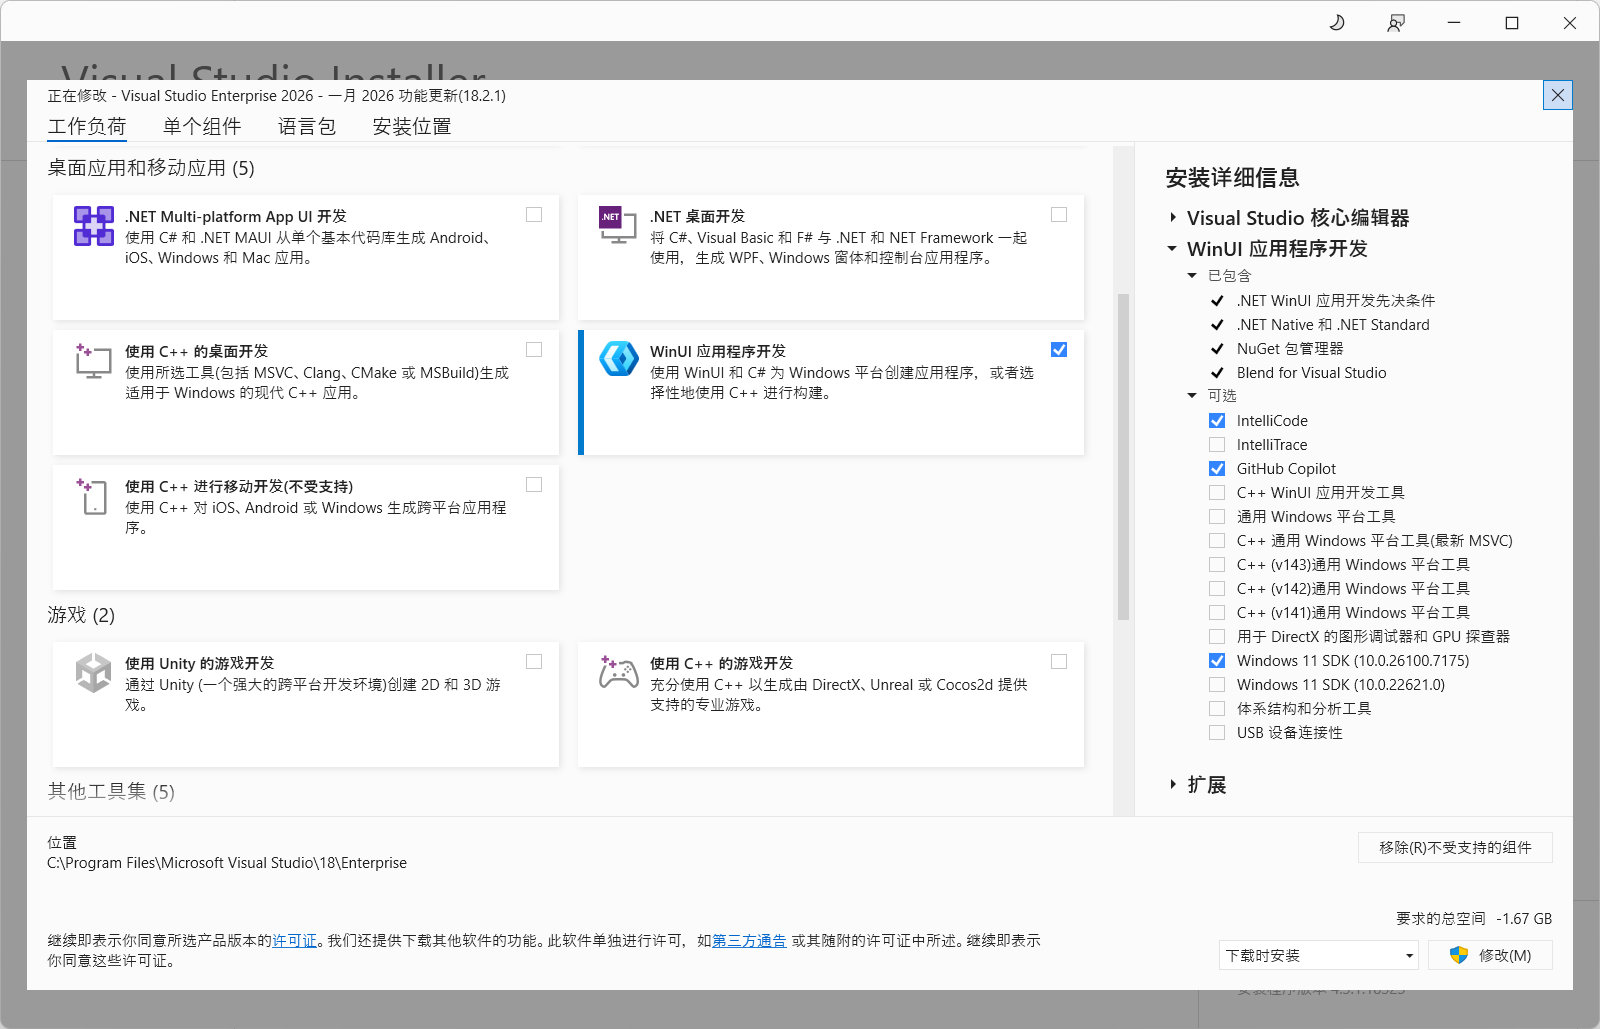
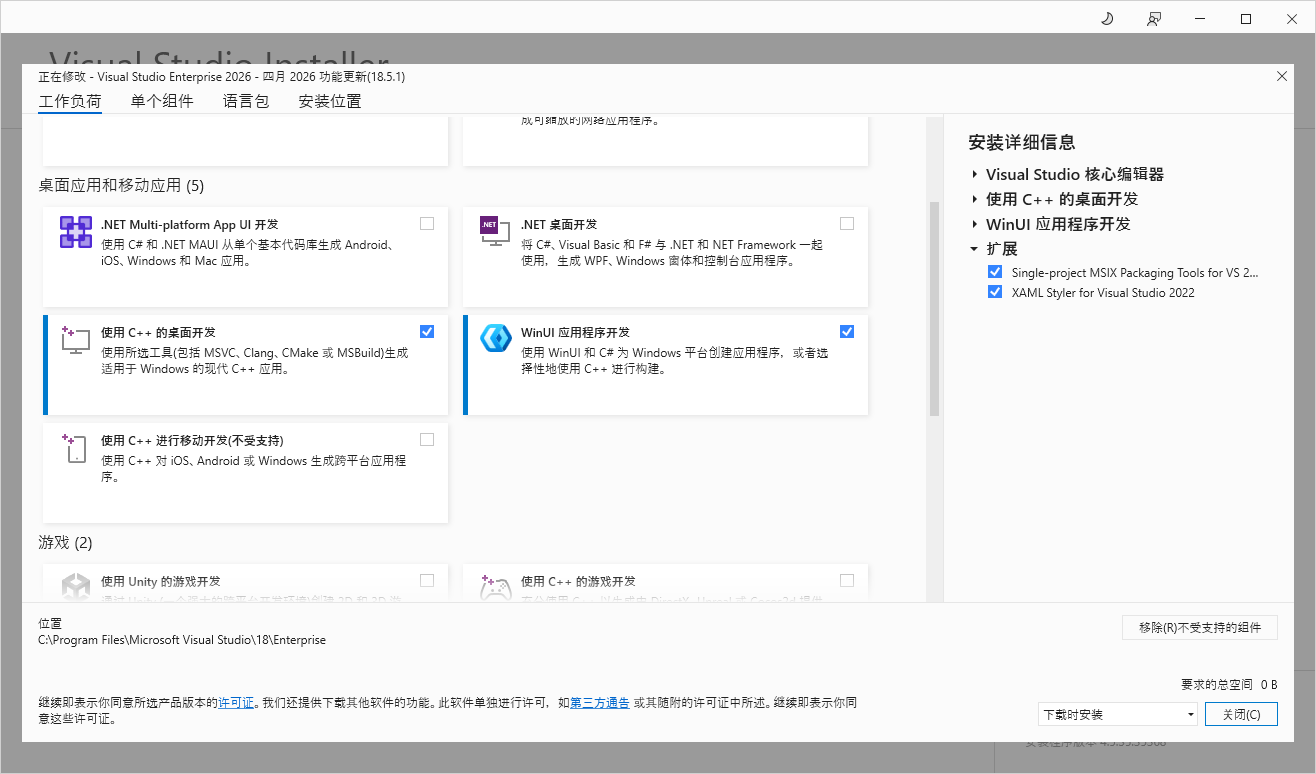
更新README

diff --git a/README.md b/README.md
@@ -29,9 +29,9 @@
 - 🎵 **全格式音频播放** - 支持 MP3、FLAC、OPUS、OGG 等 20+ 种音频格式，本地与在线音乐无缝切换
 - 🌐 **在线音乐搜索** - 集成在线音乐 API，支持在线搜索、播放歌曲、专辑、歌单及艺术家
 - 🗂 **智能音乐管理** - 按艺术家、专辑、歌单多维度分类，支持 M3U8 播放列表导入导出
-- 📝 **沉浸歌词体验** - 内嵌与灵动词岛双模式歌词显示，支持字体自定义
+- 📝 **沉浸歌词体验** - 内嵌与灵动词岛双模式歌词显示，支持字体字号自定义
 - 🎛 **专业音效控制** - 内置变速播放，支持 WASAPI 独占模式输出
-- 🎨 **精致视觉设计** - 多种 云母/亚克力 材质主题，封面取色动态背景，优雅现代的界面
+- 🎨 **精致视觉设计** - 多种云母、亚克力材质主题，封面取色动态背景，Q弹动效，优雅现代的界面
 - 🔄 **系统深度整合** - 系统媒体传输控制（SMTC）支持，文件关联启动，通知推送
 - 📋 **灵活队列管理** - 随机播放、单曲循环、列表循环，支持播放队列自由编辑
 
@@ -48,6 +48,14 @@
 - **x64** - 适用于 64 位系统（推荐，大多数用户）
 - **ARM64** - 适用于 ARM 64 位系统（如 Surface Pro X）
 - **x86** - 适用于 32 位系统（较少使用）
+
+## ❗ 注意事项
+
+批量选择歌曲功能暂未实现，目前点击歌曲前的复选框没有反应是正常现象。
+
+## 📢 社区
+
+交流群: [QQ群](https://qm.qq.com/q/fwxkEjwlDa) (548076820)
 
 ## 📱 应用界面
 
@@ -100,6 +108,16 @@
 | 简体中文                        | zh-Hans  |   ✅   |   ✅   | LanZhan-Harmony |
 | 繁体中文 (繁體中文)             | zh-Hant  |   ✅   |   -    | 机器翻译        |
 
+## ⭐ Star 历史趋势
+
+<a href="https://www.star-history.com/?repos=LanZhan-Harmony%2FWindowsMusicPlayer-TheUntamedMusicPlayer&type=date&legend=bottom-right">
+ <picture>
+   <source media="(prefers-color-scheme: dark)" srcset="https://api.star-history.com/chart?repos=LanZhan-Harmony/WindowsMusicPlayer-TheUntamedMusicPlayer&type=date&theme=dark&legend=top-left" />
+   <source media="(prefers-color-scheme: light)" srcset="https://api.star-history.com/chart?repos=LanZhan-Harmony/WindowsMusicPlayer-TheUntamedMusicPlayer&type=date&legend=top-left" />
+   <img alt="Star History Chart" src="https://api.star-history.com/chart?repos=LanZhan-Harmony/WindowsMusicPlayer-TheUntamedMusicPlayer&type=date&legend=top-left" />
+ </picture>
+</a>
+
 ## 🙏 致谢
 
 特别感谢以下开源项目和开发者的支持和灵感：
@@ -107,6 +125,7 @@
 - [离幻 UWP 音乐播放器](https://github.com/DenryDu/Disenchant-Music-Player)
 - [C# 版网易云音乐 API](https://github.com/wwh1004/NeteaseCloudMusicApi)
 - [ScreenBox](https://github.com/huynhsontung/Screenbox)
+- [Character-Map-UWP](https://github.com/character-map-uwp/Character-Map-UWP)
 
 ## 📚 项目依赖
 

diff --git a/Docs/README-en.md b/Docs/README-en.md
@@ -35,7 +35,7 @@ A modern music player for online and local music streaming
 - 📝 **Immersive Lyrics Experience** - Dual-mode lyrics display with embedded and floating options, supporting custom
   fonts
 - 🎛 **Professional Audio Control** - Built-in variable speed playback with WASAPI exclusive mode output support
-- 🎨 **Exquisite Visual Design** - Multiple Mica/Acrylic material themes, cover-based dynamic backgrounds, elegant and
+- 🎨 **Exquisite Visual Design** - Multiple Mica/Acrylic material themes, cover-based dynamic backgrounds, bouncy animation, elegant and
   modern interface
 - 🔄 **Deep System Integration** - System Media Transport Control (SMTC) support, file association launch, and
   notification push
@@ -54,6 +54,10 @@ A modern music player for online and local music streaming
 - **x64** - For 64-bit systems (Recommended for most users)
 - **ARM64** - For ARM 64-bit systems (e.g., Surface Pro X)
 - **x86** - For 32-bit systems (Less common)
+
+## ❗ Important Notes
+
+The batch selection function for songs has not been implemented yet. Currently, it is normal that clicking the checkbox in front of a song does not respond.
 
 ## 📱 Application Interface
 
@@ -107,6 +111,16 @@ Current translation status:
 | Simplified Chinese (简体中文)  |    zh-Hans    |     ✅     |    ✅     | LanZhan-Harmony     |
 | Traditional Chinese (繁體中文) |    zh-Hant    |     ✅     |     -     | Machine Translation |
 
+## ⭐ Star History
+
+<a href="https://www.star-history.com/?repos=LanZhan-Harmony%2FWindowsMusicPlayer-TheUntamedMusicPlayer&type=date&legend=bottom-right">
+ <picture>
+   <source media="(prefers-color-scheme: dark)" srcset="https://api.star-history.com/chart?repos=LanZhan-Harmony/WindowsMusicPlayer-TheUntamedMusicPlayer&type=date&theme=dark&legend=top-left" />
+   <source media="(prefers-color-scheme: light)" srcset="https://api.star-history.com/chart?repos=LanZhan-Harmony/WindowsMusicPlayer-TheUntamedMusicPlayer&type=date&legend=top-left" />
+   <img alt="Star History Chart" src="https://api.star-history.com/chart?repos=LanZhan-Harmony/WindowsMusicPlayer-TheUntamedMusicPlayer&type=date&legend=top-left" />
+ </picture>
+</a>
+
 ## 🙏 Acknowledgments
 
 Special thanks to the following open-source projects and developers for their support and inspiration:
@@ -114,6 +128,7 @@ Special thanks to the following open-source projects and developers for their su
 - [Disenchant UWP Music Player](https://github.com/DenryDu/Disenchant-Music-Player)
 - [C# Netease Cloud Music API](https://github.com/wwh1004/NeteaseCloudMusicApi)
 - [ScreenBox](https://github.com/huynhsontung/Screenbox)
+- [Character-Map-UWP](https://github.com/character-map-uwp/Character-Map-UWP)
 
 ## 📚 Project Dependencies
 

diff --git a/CONTRIBUTING.md b/CONTRIBUTING.md
@@ -17,6 +17,7 @@
 
 安装 Visual Studio 2026 时，请勾选以下工作负载：
 
+- **使用 C++ 的桌面开发**
 - **WinUI 应用程序开发**
 
 ![Visual Studio 组件安装图](/Docs/Images/VisualStudioComponent.png)
@@ -37,6 +38,14 @@ git clone https://github.com/LanZhan-Harmony/WindowsMusicPlayer-TheUntamedMusicP
 
 等待 Visual Studio 自动还原 NuGet 依赖包。
 
-### 5. 编译并运行
+### 5. 编译 BassAudioEngine
+
+右击 `BassAudioEngine` 项目，选择“生成”以编译音频引擎。
+![编译 BassAudioEngine 图](/Docs/Images/BuildBassAudioEngine.png)
+
+### 6. 编译运行 Untamed Music Player
+
+右击 `Untamed Music Player` 项目，选择“设为启动项目”。
+![设为启动项目图](/Docs/Images/SetStartupProject.png)
 
 点击工具栏中的"**▶ Untamed Music Player (Package)**"按钮开始调试和运行应用程序。

diff --git a/Docs/CONTRIBUTING-en.md b/Docs/CONTRIBUTING-en.md
@@ -37,6 +37,14 @@ Open the `UntamedMusicPlayer.slnx` file in Visual Studio.
 
 Wait for Visual Studio to automatically restore the NuGet dependencies.
 
-### 5. Build and Run
+### 5. Compile BassAudioEngine
+
+Right-click on the `BassAudioEngine` project and select "Build" to compile the audio engine.
+![Build BassAudioEngine](Images/BuildBassAudioEngine.png)
+
+### 6. Build and Run Untamed Music Player
+
+Right-click on the `Untamed Music Player` project and select "Set as StartUp Project".
+![Set as StartUp Project](Images/SetStartupProject.png)
 
 Click the "**▶ Untamed Music Player (Package)**" button in the toolbar to start debugging and running the application.
